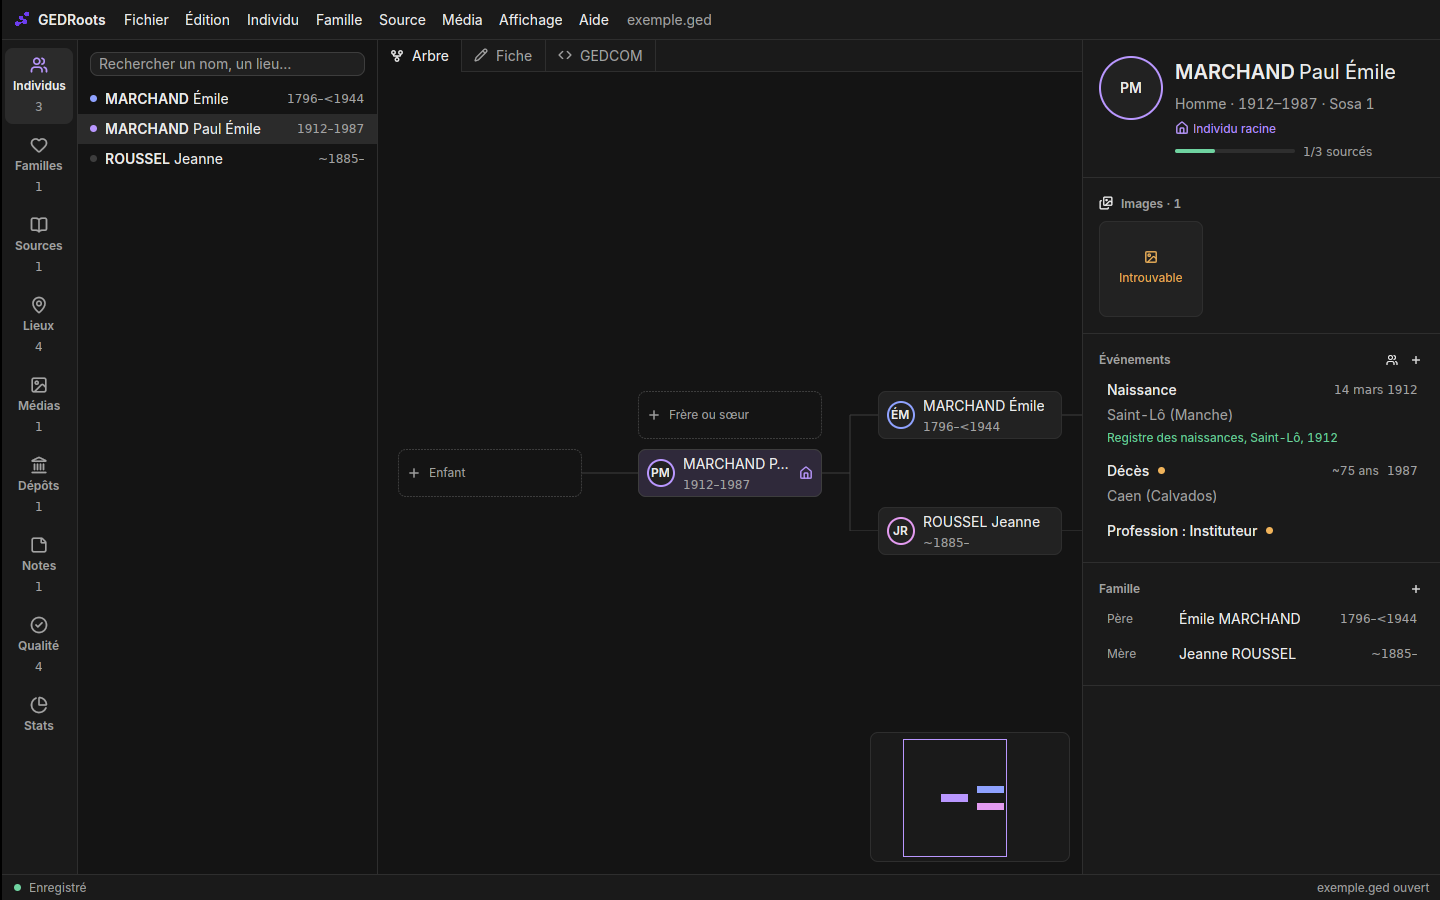
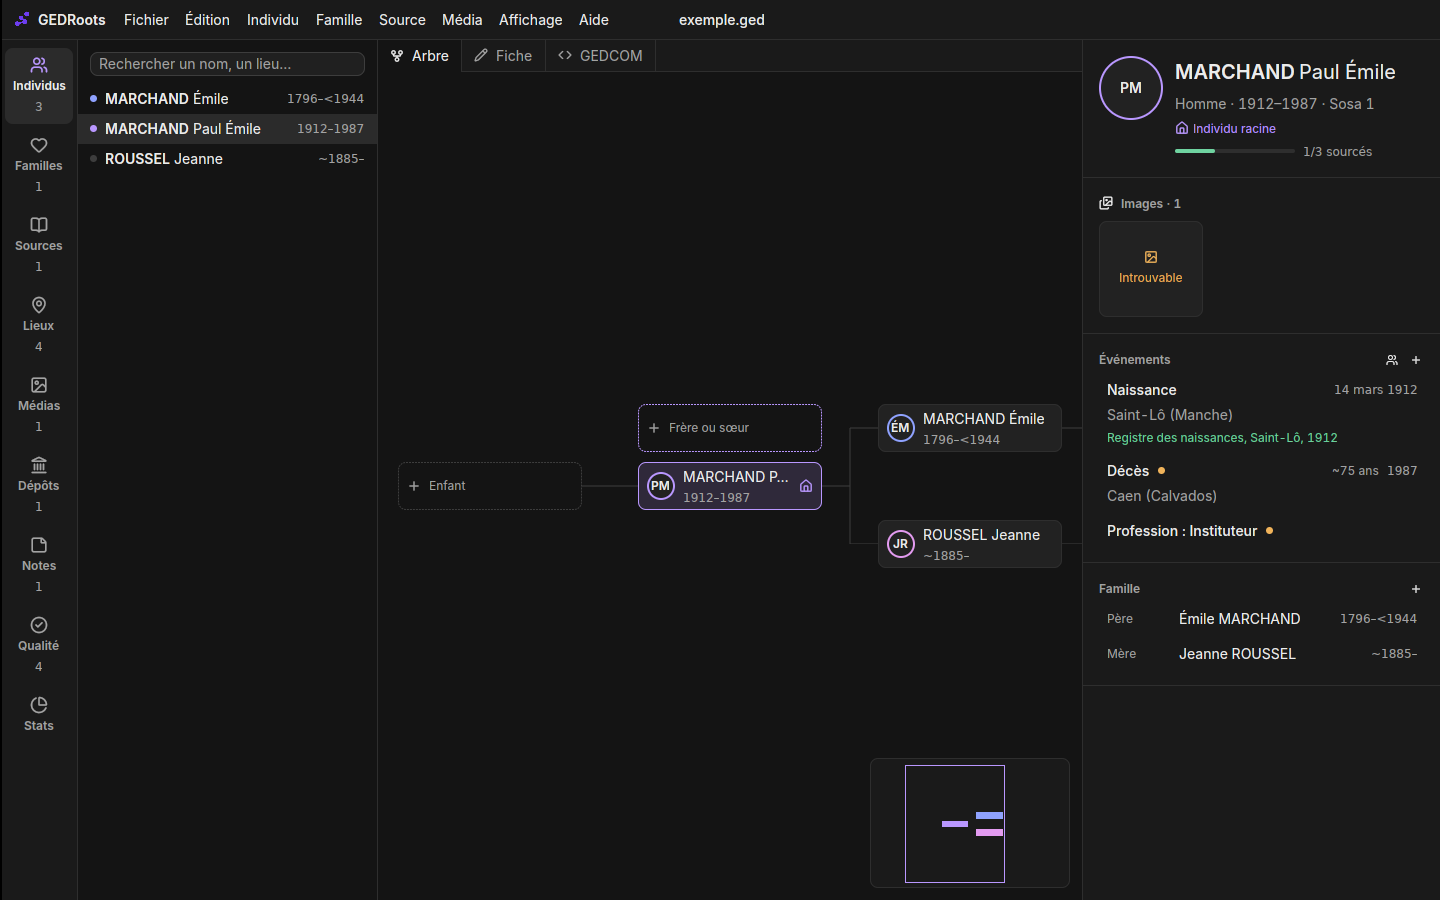
Barre de titre unifiée sur macOS, nom du fichier affiché une seule fois, barre d'état retirée
- macOS : barre de titre transparente, feux tricolores dans la barre du haut, qui déplace
  la fenêtre (double clic : zoom) ; point « modifié » natif dans le bouton de fermeture.
- Nom du fichier centré dans la barre du haut, suivi de « • » tant qu'il n'est pas enregistré.
- Messages d'état à droite de la barre du haut ; barre d'état supprimée.
- Plus de texte d'aide au centre quand rien n'est sélectionné.
- Infobulles avec raccourci sur les onglets, infobulles sur les « + » des réglages.

Claude-Session: https://claude.ai/code/session_01Y6gEeX7rZbAy25R2Bd5JVX

diff --git a/crates/gedroots/src/workspace.rs b/crates/gedroots/src/workspace.rs
@@ -14,6 +14,7 @@ use gpui_kit::component::button::{Button, ButtonVariants};
 use gpui_kit::component::input::{Editor, Input, InputEvent, InputState, Textarea};
 use gpui_kit::component::menu::AppMenuBar;
 use gpui_kit::component::select::Select;
+use gpui_kit::component::tooltip::Tooltip;
 use gpui_kit::component::{Disableable, Icon, Sizable, h_flex, v_flex};
 use gpui_kit::prelude::FluentBuilder;
 use gpui_kit::*;
@@ -329,7 +330,6 @@ impl Workspace {
         match gedcom::load(&path) {
             Ok(ged) => {
                 let first = ged.root();
-                let name = path.file_name().map(|n| n.to_string_lossy().to_string()).unwrap_or_default();
                 self.doc = Some(Document {
                     ged,
                     path: Some(path),
@@ -345,7 +345,7 @@ impl Workspace {
                 if let Some(x) = first {
                     self.select(x, window, cx);
                 }
-                self.set_status(format!("{name} ouvert"), false);
+                self.status = None;
             }
             Err(e) => self.set_status(format!("Impossible d'ouvrir {} : {e}", path.display()), true),
         }
@@ -1177,39 +1177,59 @@ fn avatar(doc: &Document, i: &Individual<'_>, size: f32, ring: Hsla) -> Div {
 }
 
 impl Workspace {
+    /// Barre du haut. Sous macOS elle remplace la barre de titre : les feux tricolores y sont
+    /// posés (voir `main.rs`) et elle sert à déplacer la fenêtre. Le nom du fichier n'apparaît
+    /// qu'ici, centré, suivi d'un point tant qu'il reste des modifications à enregistrer.
     fn render_header(&self) -> impl IntoElement {
-        let file = self
-            .doc
-            .as_ref()
-            .map(|d| {
-                d.path
-                    .as_ref()
-                    .and_then(|p| p.file_name())
-                    .map(|n| n.to_string_lossy().to_string())
-                    .unwrap_or_else(|| "Nouveau fichier".into())
-            })
-            .unwrap_or_default();
+        let mac = cfg!(target_os = "macos");
+        let title = self.doc.as_ref().map(|d| {
+            let name = d
+                .path
+                .as_ref()
+                .and_then(|p| p.file_name())
+                .map(|n| n.to_string_lossy().to_string())
+                .unwrap_or_else(|| "Nouveau fichier".into());
+            if d.dirty { format!("{name} •") } else { name }
+        });
         h_flex()
+            .id("header")
             .h(px(40.))
             .flex_none()
             .px_3()
-            .gap_3()
+            .when(mac, |d| {
+                d.pl(px(80.)).on_mouse_down(MouseButton::Left, |e, window, _| {
+                    if e.click_count == 2 {
+                        window.titlebar_double_click();
+                    } else {
+                        window.start_window_move();
+                    }
+                })
+            })
             .items_center()
             .bg(theme::panel())
             .border_b_1()
             .border_color(theme::border())
             .child(
                 h_flex()
-                    .gap_2()
+                    .flex_1()
+                    .min_w_0()
+                    .gap_3()
                     .items_center()
-                    .font_weight(FontWeight::SEMIBOLD)
-                    .child(img("brand/icon-micro.svg").size(px(16.)))
-                    .child("GEDRoots"),
+                    .child(
+                        h_flex()
+                            .gap_2()
+                            .items_center()
+                            .font_weight(FontWeight::SEMIBOLD)
+                            .child(img("brand/icon-micro.svg").size(px(16.)))
+                            .when(!mac, |d| d.child("GEDRoots")),
+                    )
+                    // Linux, Windows : menus dans la fenêtre (natifs sous macOS).
+                    .children(self.menu_bar.clone().map(|m| div().h_full().child(m))),
             )
-            // Linux, Windows : menus dans la fenêtre (natifs sous macOS).
-            .children(self.menu_bar.clone().map(|m| div().h_full().child(m)))
-            .child(div().text_color(theme::muted()).child(file))
-            .child(div().flex_1())
+            .children(title.map(|t| div().flex_none().text_sm().font_weight(FontWeight::MEDIUM).child(t)))
+            .child(h_flex().flex_1().min_w_0().justify_end().text_xs().children(self.status.clone().map(
+                |(msg, err)| div().truncate().text_color(if err { theme::danger() } else { theme::muted() }).child(msg),
+            )))
     }
 
     fn render_activity_bar(&self, cx: &mut Context<Self>) -> impl IntoElement {
@@ -1436,6 +1456,17 @@ impl Workspace {
                                 if active { d.bg(theme::bg()) } else { d.border_b_1().hover(|d| d.bg(theme::hover())) }
                             })
                             .text_color(if active { theme::text() } else { theme::muted() })
+                            // Infobulle : le raccourci de l'onglet.
+                            .tooltip(move |w, cx| {
+                                let tip = Tooltip::new(t.label());
+                                match t {
+                                    CenterTab::Tree => tip.action(&ShowTree, Some("Workspace")),
+                                    CenterTab::Form => tip.action(&ShowForm, Some("Workspace")),
+                                    CenterTab::Raw => tip.action(&ShowRaw, Some("Workspace")),
+                                    CenterTab::Map => tip,
+                                }
+                                .build(w, cx)
+                            })
                             .child(icon(t.icon()).size(px(14.)).text_color(if active {
                                 theme::text()
                             } else {
@@ -1465,12 +1496,7 @@ impl Workspace {
     }
 
     fn render_empty_center(&self) -> impl IntoElement {
-        v_flex()
-            .flex_1()
-            .items_center()
-            .justify_center()
-            .text_color(theme::muted())
-            .child("Sélectionnez un élément dans la liste")
+        div().flex_1()
     }
 
     fn render_form(&self, ed: &RecordEditor, cx: &mut Context<Self>) -> impl IntoElement {
@@ -2435,34 +2461,6 @@ impl Workspace {
             })
     }
 
-    fn render_status(&self) -> impl IntoElement {
-        let saved = self.doc.as_ref().is_none_or(|d| !d.dirty);
-        h_flex()
-            .h(px(26.))
-            .flex_none()
-            .px_3()
-            .gap_4()
-            .items_center()
-            .text_xs()
-            .bg(theme::panel())
-            .border_t_1()
-            .border_color(theme::border())
-            .text_color(theme::muted())
-            .when(self.doc.is_some(), |d| {
-                d.child(
-                    h_flex()
-                        .gap_2()
-                        .items_center()
-                        .child(dot(if saved { theme::ok() } else { theme::warn() }))
-                        .child(if saved { "Enregistré" } else { "Modifications non enregistrées" }),
-                )
-            })
-            .child(div().flex_1())
-            .when_some(self.status.clone(), |d, (msg, err)| {
-                d.child(div().text_color(if err { theme::danger() } else { theme::muted() }).child(msg))
-            })
-    }
-
     fn render_welcome(&self, cx: &mut Context<Self>) -> impl IntoElement {
         v_flex()
             .flex_1()
@@ -2516,6 +2514,8 @@ impl Render for Workspace {
         };
         if title != self.window_title {
             window.set_window_title(&title);
+            // macOS : point dans le bouton de fermeture tant que le fichier n'est pas enregistré.
+            window.set_window_edited(self.doc.as_ref().is_some_and(|d| d.dirty));
             self.window_title = title;
         }
         // Les raccourcis (Enregistrer…) passent par ce nœud : on le garde dans la chaîne de focus.
@@ -2573,7 +2573,6 @@ impl Render for Workspace {
             // macOS : menus natifs, et le nom du fichier est dans le titre de la fenêtre.
             .when(self.menu_bar.is_some(), |d| d.child(self.render_header()))
             .child(body)
-            .child(self.render_status())
             .children(self.render_picker(cx))
             .children(self.render_add_dialog(cx))
             .children(self.render_palette(cx))

diff --git a/crates/gedroots/src/workspace/settings.rs b/crates/gedroots/src/workspace/settings.rs
@@ -440,7 +440,7 @@ impl Workspace {
             .gap_2()
             .child(section_header(
                 "Format des lieux",
-                plus_button("plac-add").on_click(cx.listener(|this, _, w, cx| {
+                plus_button("plac-add").tooltip("Ajouter une juridiction").on_click(cx.listener(|this, _, w, cx| {
                     let name = text_input("Juridiction", "", w, cx);
                     name.update(cx, |s, cx| s.focus(w, cx));
                     if let Some(d) = this.settings_dialog() {
@@ -497,16 +497,16 @@ impl Workspace {
                 .gap_2()
                 .child(section_header(
                     title,
-                    plus_button(if family { "even-add-fam" } else { "even-add-indi" }).on_click(cx.listener(
-                        move |this, _, w, cx| {
+                    plus_button(if family { "even-add-fam" } else { "even-add-indi" })
+                        .tooltip("Ajouter un type")
+                        .on_click(cx.listener(move |this, _, w, cx| {
                             let label = text_input("Libellé", "", w, cx);
                             label.update(cx, |s, cx| s.focus(w, cx));
                             if let Some(d) = this.settings_dialog() {
                                 d.events.push(EventRow { label, original: None, family, uses: 0 });
                             }
                             cx.notify();
-                        },
-                    )),
+                        })),
                 ))
                 .children(rows)
         };
@@ -657,16 +657,18 @@ impl Workspace {
                     .gap_2()
                     .child(section_header(
                         "Sous-dossiers",
-                        plus_button("media-add").on_click(cx.listener(|this, _, w, cx| {
-                            let (row, subs) = MediaRow::new(&MediaFolder::default(), w, cx);
-                            row.dir.update(cx, |s, cx| s.focus(w, cx));
-                            if let Some(d) = this.settings_dialog() {
-                                d.media.push(row);
-                                d.media_active = d.media.len() - 1;
-                                d._subs.extend(subs);
-                            }
-                            cx.notify();
-                        })),
+                        plus_button("media-add").tooltip("Ajouter un dossier").on_click(cx.listener(
+                            |this, _, w, cx| {
+                                let (row, subs) = MediaRow::new(&MediaFolder::default(), w, cx);
+                                row.dir.update(cx, |s, cx| s.focus(w, cx));
+                                if let Some(d) = this.settings_dialog() {
+                                    d.media.push(row);
+                                    d.media_active = d.media.len() - 1;
+                                    d._subs.extend(subs);
+                                }
+                                cx.notify();
+                            },
+                        )),
                     ))
                     .children(rows)
                     .when(n > 0, |v| v.child(h_flex().flex_wrap().gap_1().children(tokens))),

diff --git a/crates/gedroots/src/main.rs b/crates/gedroots/src/main.rs
@@ -104,7 +104,12 @@ fn open_workspace(path: Option<PathBuf>, cx: &mut App) -> Option<(AnyWindowHandl
     let bounds = Bounds::centered(None, size(px(1440.), px(900.)), cx);
     let options = WindowOptions {
         window_bounds: Some(WindowBounds::Windowed(bounds)),
-        titlebar: Some(TitlebarOptions { title: Some("GEDRoots".into()), ..Default::default() }),
+        // macOS : barre de titre fondue dans la barre du haut de l'app, feux tricolores compris.
+        titlebar: Some(TitlebarOptions {
+            title: Some("GEDRoots".into()),
+            appears_transparent: cfg!(target_os = "macos"),
+            traffic_light_position: cfg!(target_os = "macos").then(|| point(px(14.), px(13.))),
+        }),
         ..Default::default()
     };
     let (window, ws) = gpui_kit::open_window(options, cx, move |window, cx| {
